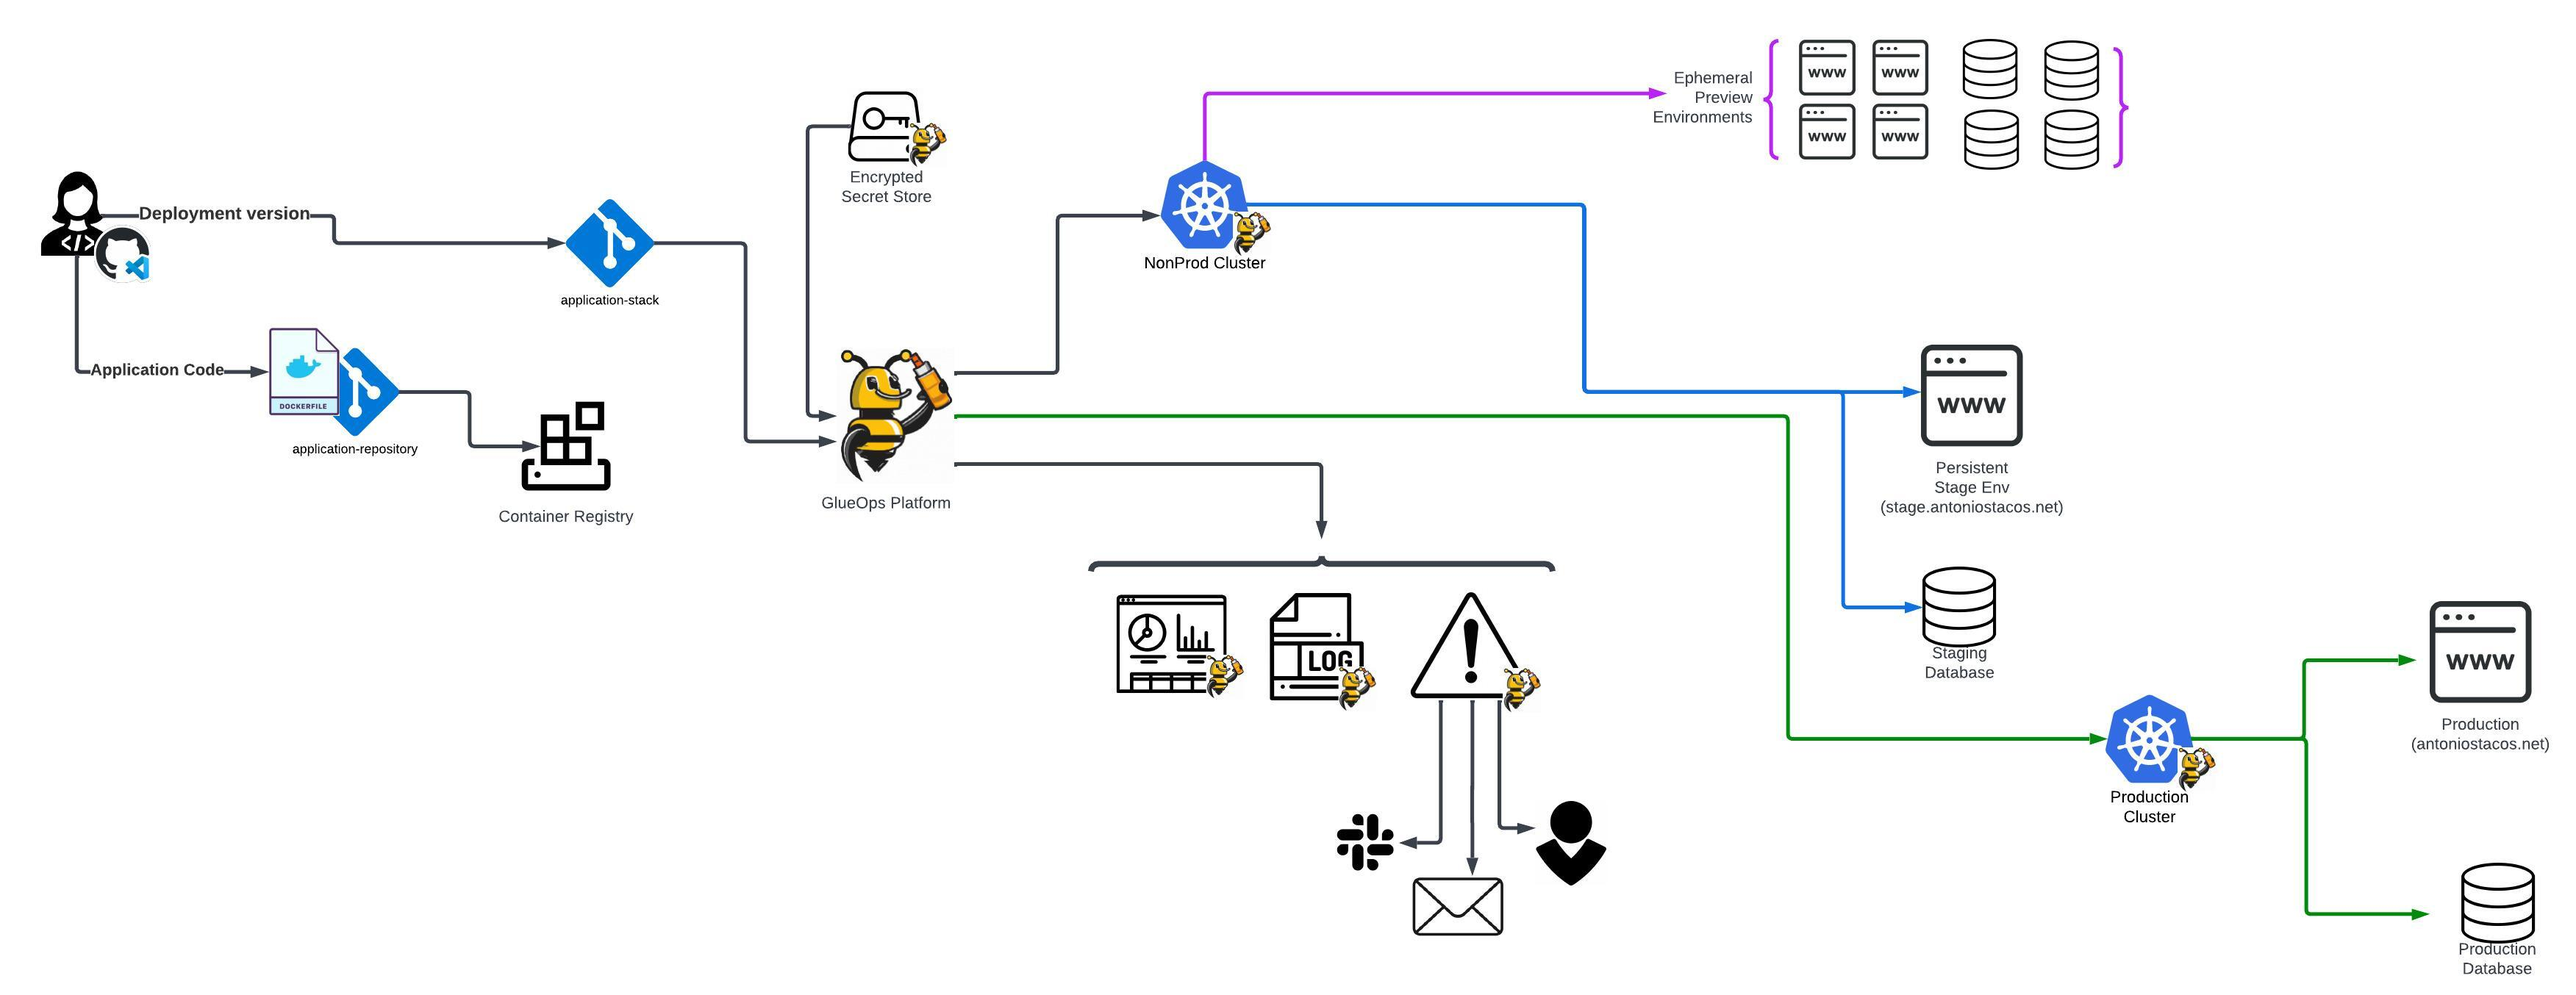
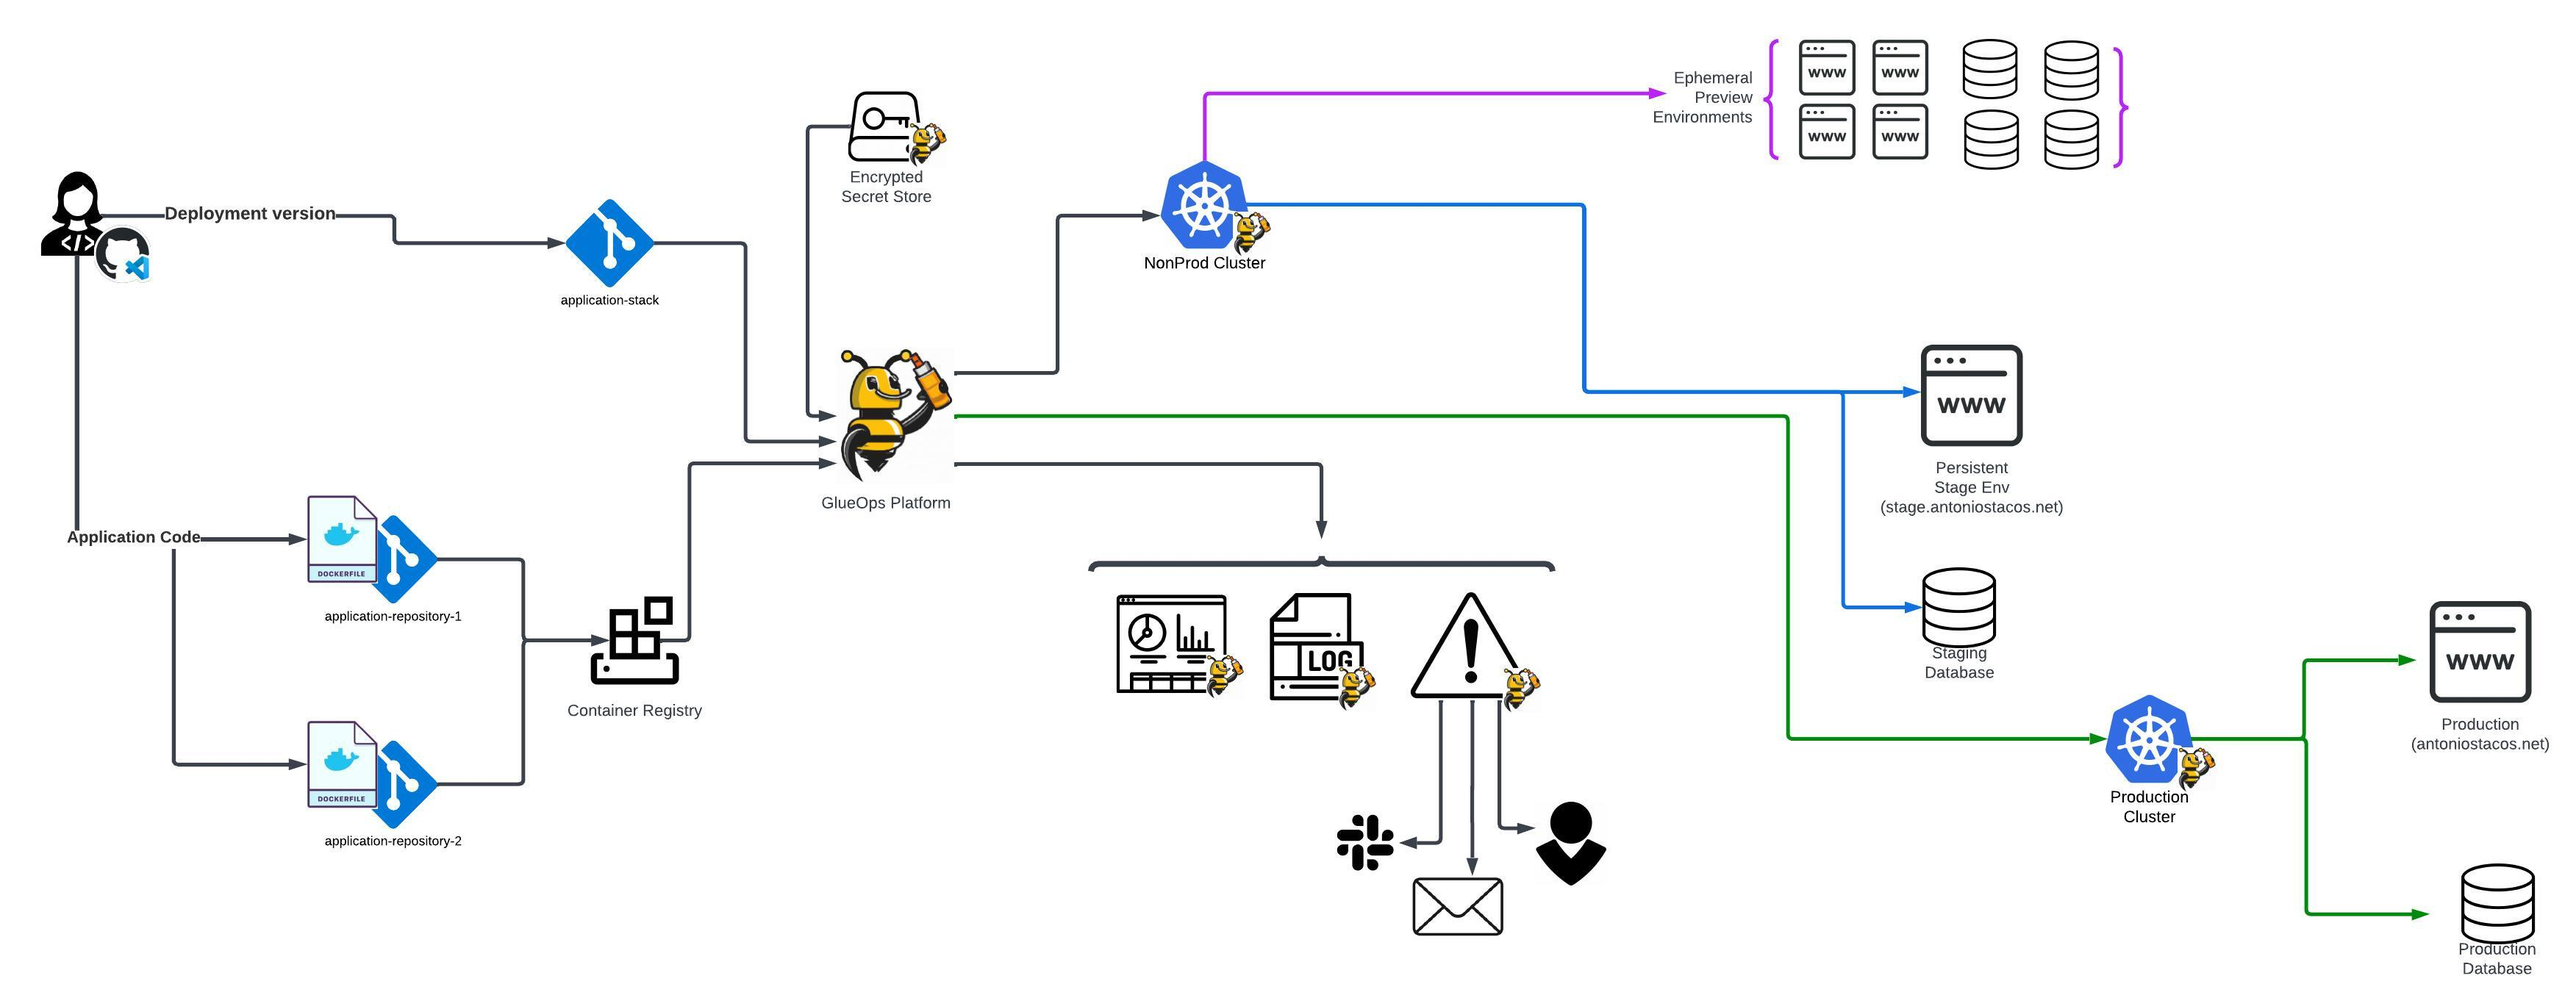
docs: new image and linebreaks

diff --git a/overview.md b/overview.md
@@ -1,5 +1,7 @@
 # The GlueOps Platform
-
+\
+\
+\
 ![Alt text](GlueOpsPlatformOverview.jpeg?raw=true "GlueOps Platform Overview")
 
 #### The GlueOps Platform enables a seamless, GitOps driven workflow for deploying production and staging applications.  The platform also creates ephemeral, preview environments that enable developers to explore their running applications before their changes are merged to the main branch or deployed to production.
